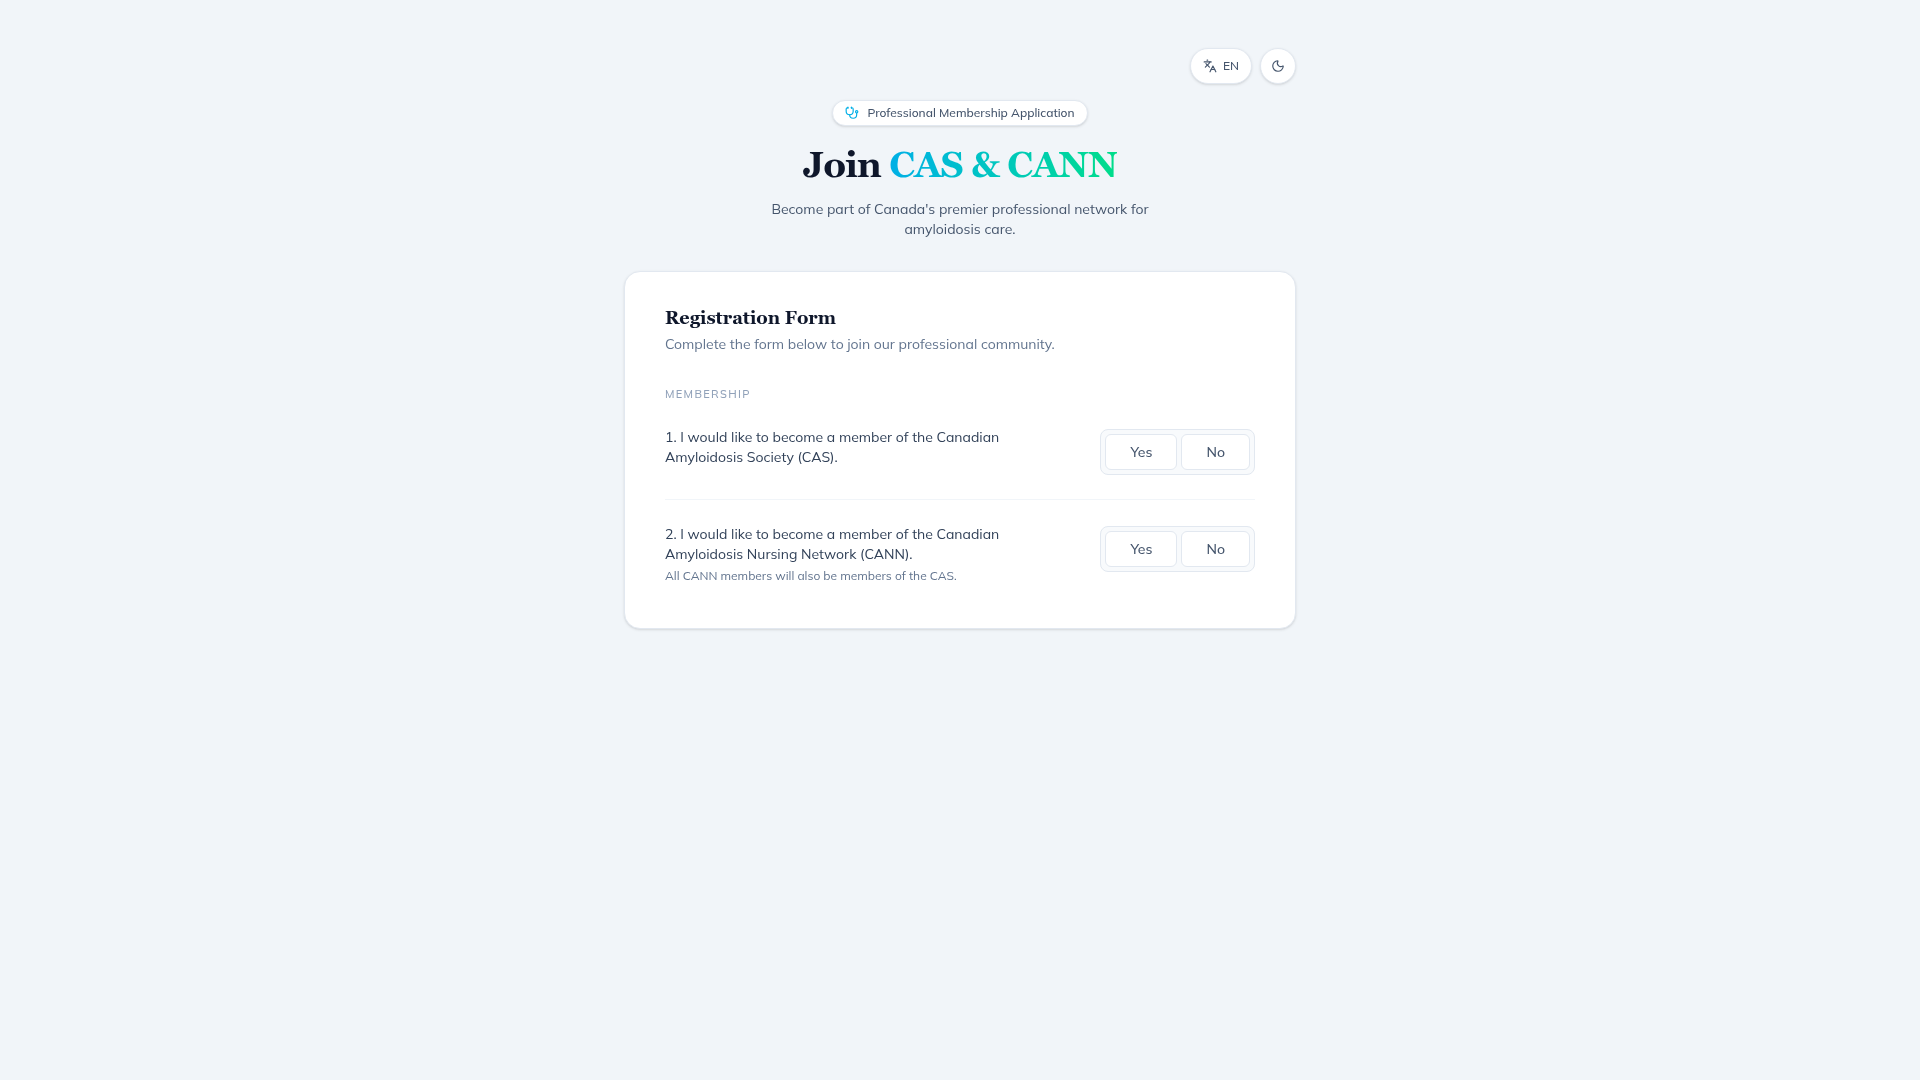
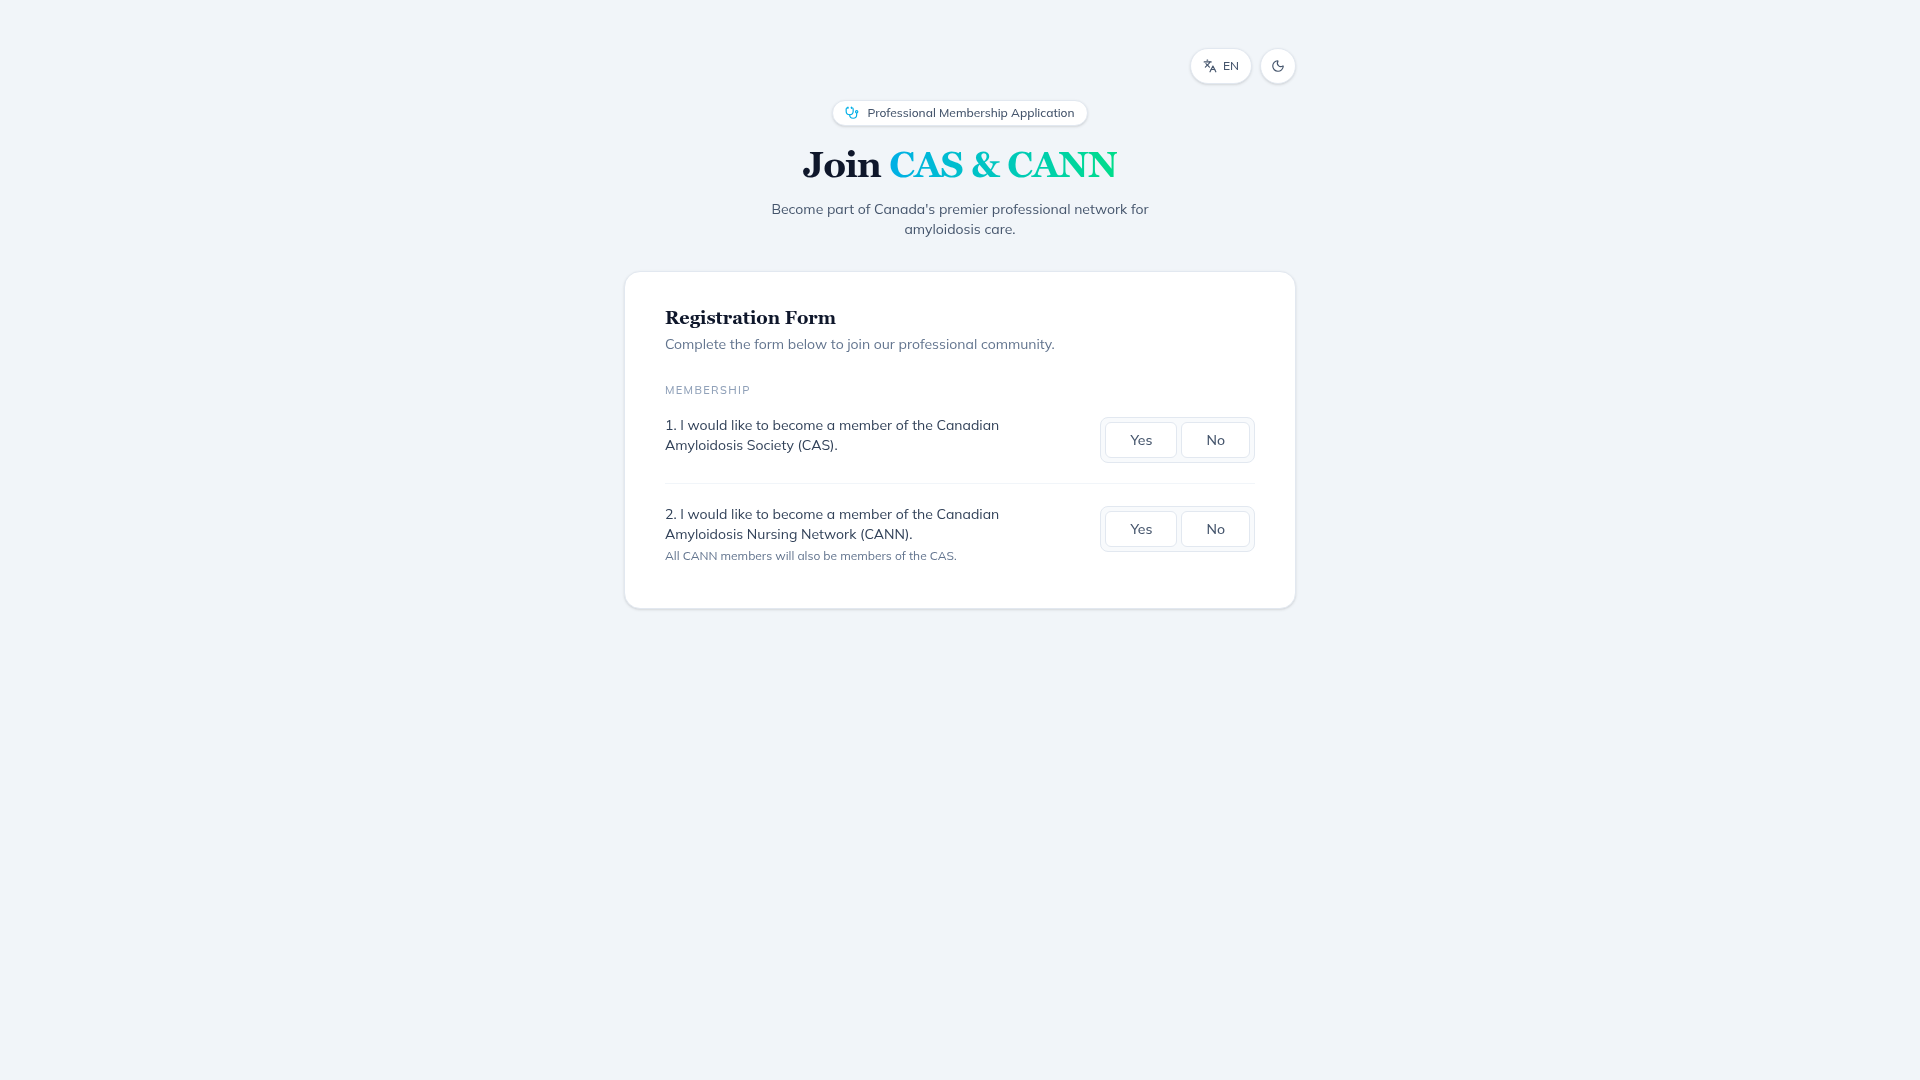
Reduce excessive spacing between sections in the join form
Adjusted vertical spacing (space-y) and top padding (pt) values in the Redesigned.tsx component to decrease the gaps between form sections, improving visual density.

Replit-Commit-Author: Agent
Replit-Commit-Session-Id: ef7bf022-0b3a-4156-9c38-2b98b837c1d1
Replit-Commit-Checkpoint-Type: full_checkpoint
Replit-Commit-Event-Id: a9876f92-95db-4f35-be84-5813f931fe96
Replit-Commit-Screenshot-Url: https://storage.googleapis.com/screenshot-production-us-central1/e9fe007f-c11f-42ca-a1dd-347ccc032e17/ef7bf022-0b3a-4156-9c38-2b98b837c1d1/9ithtoj
Replit-Helium-Checkpoint-Created: true

diff --git a/artifacts/mockup-sandbox/src/components/mockups/join-cas/Redesigned.tsx b/artifacts/mockup-sandbox/src/components/mockups/join-cas/Redesigned.tsx
@@ -514,9 +514,9 @@ function Section({
   children: React.ReactNode;
 }) {
   return (
-    <section className="space-y-5">
+    <section className="space-y-3">
       {title && <h2 className="text-[11px] uppercase tracking-[0.12em] font-medium text-slate-400 dark:text-slate-500">{title}</h2>}
-      <div className="space-y-5">{children}</div>
+      <div className="space-y-4">{children}</div>
     </section>
   );
 }
@@ -777,7 +777,7 @@ export function Redesigned() {
               </p>
             </div>
 
-            <div className="px-8 sm:px-10 pb-8 sm:pb-10 pt-6 space-y-10 divide-y divide-slate-100 dark:divide-slate-800 [&>*:not(:first-child)]:pt-10">
+            <div className="px-8 sm:px-10 pb-8 sm:pb-10 pt-5 space-y-6 divide-y divide-slate-100 dark:divide-slate-800 [&>*:not(:first-child)]:pt-6">
               {/* Membership */}
               <Section title={t("sectionMembership")}>
                 <FormField
